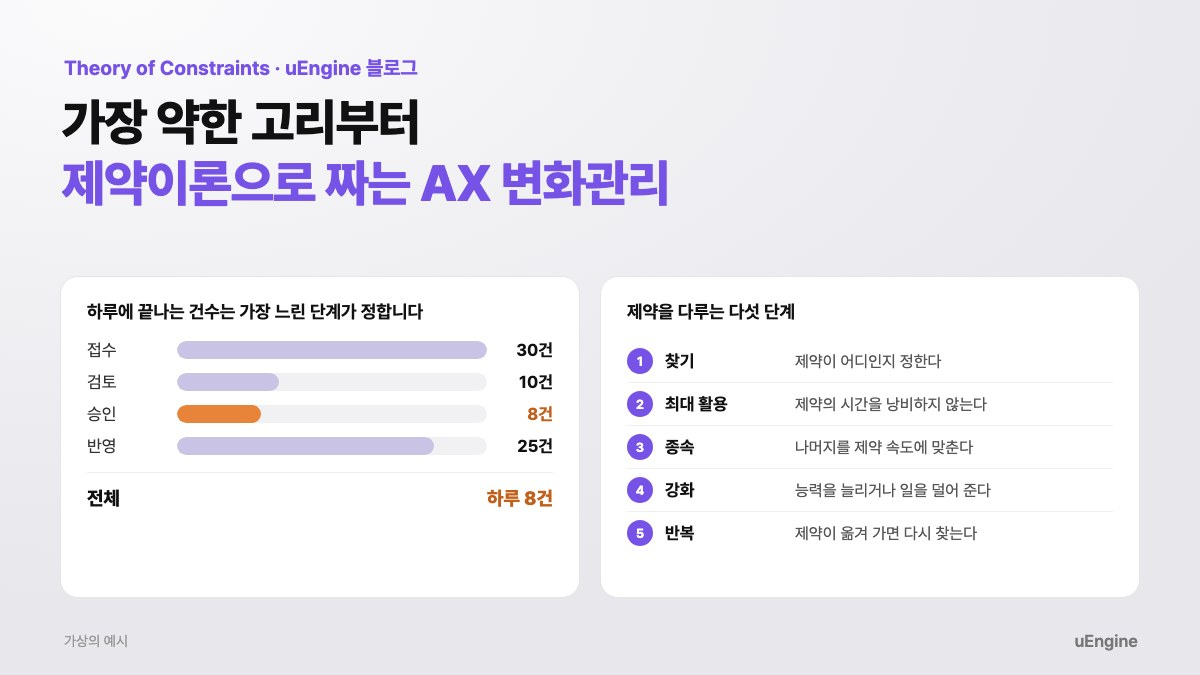
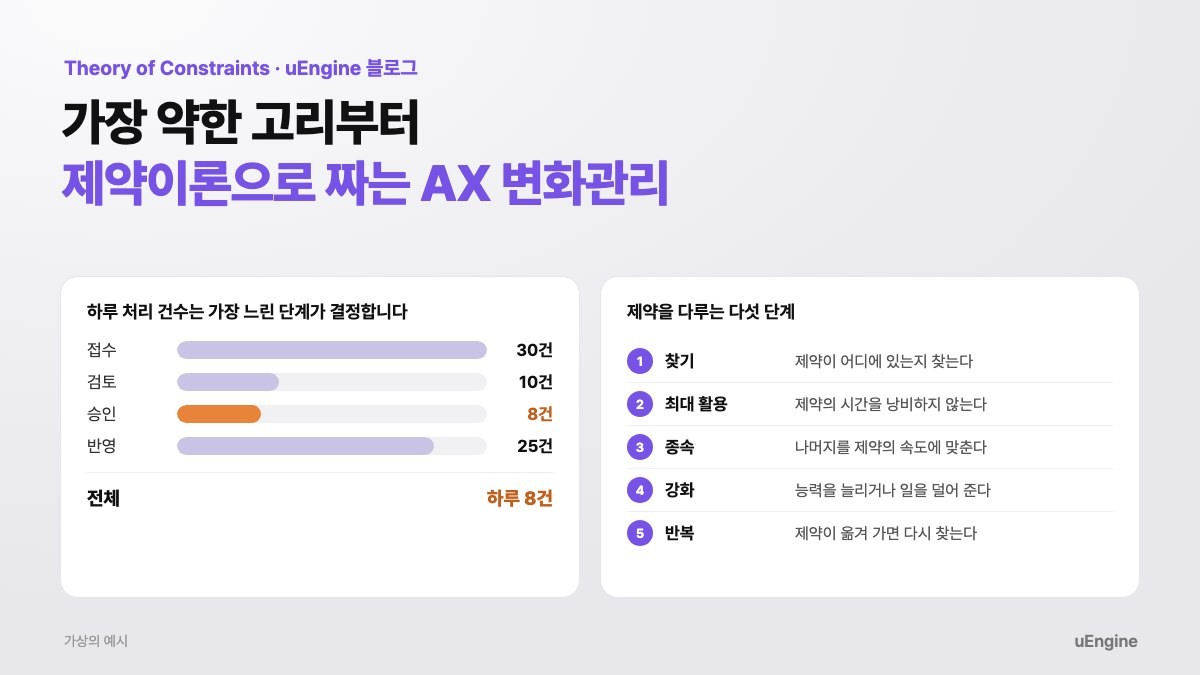
짧은 문구도 codex astra 윤문: 목록 카드 요약·SEO 설명·진단 단추·표지
- 블로그 목록 카드 요약 2편(→ 글 SEO 설명도 함께), AX 전환 프로그램 SEO 설명
- Process GPT 머리 단추 「우리 조직의 병목 진단 살펴보기」
- 블로그 표지 두 장(한국어판) 문구
- 영문은 뜻이 같아 기존 번역을 새 한국어 키에 이음

Changed region(s): [[0.0925, 0.4356, 0.37, 0.4978], [0.74, 0.6533, 0.8325, 0.6844], [0.7092, 0.5289, 0.8017, 0.56]]

diff --git a/contents/blog/ax-change-management-toc.html b/contents/blog/ax-change-management-toc.html
@@ -4,26 +4,27 @@
         <meta charset="utf-8">
         <!-- SEO:BEGIN — 자동 생성됨. 직접 수정하지 마세요. .claude/skills/seo-optimize/seo-meta.json 을 고치고 apply_seo.py 를 다시 실행하세요. -->
         <title>가장 약한 고리부터 — 제약이론으로 짜는 AX 변화관리 | uEngine 블로그</title>
-        <meta name="description" content="AI 교육을 마쳐도 일이 끝나는 시간이 그대로인 이유를 제약이론으로 설명합니다. 사슬은 가장 약한 고리만큼 강하다는 원리와 제약을 다루는 다섯 단계를 예제 숫자로 풀고, 이를 진단에서 변화관리까지 이어지는 AX 전환 프로그램으로 옮기는 방법을 소개합니다.">
+        <meta name="description" content="AI 교육을 마쳐도 업무에 걸리는 시간이 그대로인 이유를 제약이론으로 설명합니다. 사슬의 강도는 가장 약한 고리가 결정한다는 원리와 제약을 다루는 다섯 단계를 수치 예시로 풀어 설명하고, 이를 진단부터 변화관리까지 이어지는 AX 전환 프로그램에 적용하는 방법을 소개합니다.">
         <meta name="robots" content="index, follow, max-image-preview:large, max-snippet:-1, max-video-preview:-1">
         <link rel="canonical" href="https://www.uengine.org/contents/blog/ax-change-management-toc.html">
         <meta property="og:type" content="article">
         <meta property="og:site_name" content="uEngine">
         <meta property="og:locale" content="ko_KR">
         <meta property="og:title" content="가장 약한 고리부터 — 제약이론으로 짜는 AX 변화관리 | uEngine 블로그">
-        <meta property="og:description" content="AI 교육을 마쳐도 일이 끝나는 시간이 그대로인 이유를 제약이론으로 설명합니다. 사슬은 가장 약한 고리만큼 강하다는 원리와 제약을 다루는 다섯 단계를 예제 숫자로 풀고, 이를 진단에서 변화관리까지 이어지는 AX 전환 프로그램으로 옮기는 방법을 소개합니다.">
+        <meta property="og:description" content="AI 교육을 마쳐도 업무에 걸리는 시간이 그대로인 이유를 제약이론으로 설명합니다. 사슬의 강도는 가장 약한 고리가 결정한다는 원리와 제약을 다루는 다섯 단계를 수치 예시로 풀어 설명하고, 이를 진단부터 변화관리까지 이어지는 AX 전환 프로그램에 적용하는 방법을 소개합니다.">
         <meta property="og:url" content="https://www.uengine.org/contents/blog/ax-change-management-toc.html">
         <meta property="og:image" content="https://www.uengine.org/images/blog/ax-change-management-toc.jpg">
         <meta property="og:image:alt" content="가장 약한 고리부터 — 제약이론으로 짜는 AX 변화관리 | uEngine 블로그">
         <meta property="article:published_time" content="2026-11-19">
+        <meta property="article:modified_time" content="2026-11-19">
         <meta property="article:publisher" content="https://www.uengine.org/">
         <meta name="twitter:card" content="summary_large_image">
         <meta name="twitter:title" content="가장 약한 고리부터 — 제약이론으로 짜는 AX 변화관리 | uEngine 블로그">
-        <meta name="twitter:description" content="AI 교육을 마쳐도 일이 끝나는 시간이 그대로인 이유를 제약이론으로 설명합니다. 사슬은 가장 약한 고리만큼 강하다는 원리와 제약을 다루는 다섯 단계를 예제 숫자로 풀고, 이를 진단에서 변화관리까지 이어지는 AX 전환 프로그램으로 옮기는 방법을 소개합니다.">
+        <meta name="twitter:description" content="AI 교육을 마쳐도 업무에 걸리는 시간이 그대로인 이유를 제약이론으로 설명합니다. 사슬의 강도는 가장 약한 고리가 결정한다는 원리와 제약을 다루는 다섯 단계를 수치 예시로 풀어 설명하고, 이를 진단부터 변화관리까지 이어지는 AX 전환 프로그램에 적용하는 방법을 소개합니다.">
         <meta name="twitter:image" content="https://www.uengine.org/images/blog/ax-change-management-toc.jpg">
         <meta name="google-site-verification" content="9ZGWBuIjNYToBYuO79BveQS6l5kh6oEWg-LqIioIwhk">
         <meta name="naver-site-verification" content="5c690f447e5e02997ffdc0d4e5ad62bee713a647">
-        <script type="application/ld+json">{"@context":"https://schema.org","@type":"BlogPosting","headline":"가장 약한 고리부터 — 제약이론으로 짜는 AX 변화관리","description":"AI 교육을 마쳐도 일이 끝나는 시간이 그대로인 이유를 제약이론으로 설명합니다. 사슬은 가장 약한 고리만큼 강하다는 원리와 제약을 다루는 다섯 단계를 예제 숫자로 풀고, 이를 진단에서 변화관리까지 이어지는 AX 전환 프로그램으로 옮기는 방법을 소개합니다.","image":["https://www.uengine.org/images/blog/ax-change-management-toc.jpg"],"url":"https://www.uengine.org/contents/blog/ax-change-management-toc.html","mainEntityOfPage":{"@type":"WebPage","@id":"https://www.uengine.org/contents/blog/ax-change-management-toc.html"},"inLanguage":"ko","author":{"@type":"Organization","name":"유엔진솔루션즈","url":"https://www.uengine.org/"},"publisher":{"@type":"Organization","name":"유엔진솔루션즈","url":"https://www.uengine.org/","logo":{"@type":"ImageObject","url":"https://www.uengine.org/images/logo-b.png"}},"datePublished":"2026-11-19","dateModified":"2026-11-19"}</script>
+        <script type="application/ld+json">{"@context":"https://schema.org","@type":"BlogPosting","headline":"가장 약한 고리부터 — 제약이론으로 짜는 AX 변화관리","description":"AI 교육을 마쳐도 업무에 걸리는 시간이 그대로인 이유를 제약이론으로 설명합니다. 사슬의 강도는 가장 약한 고리가 결정한다는 원리와 제약을 다루는 다섯 단계를 수치 예시로 풀어 설명하고, 이를 진단부터 변화관리까지 이어지는 AX 전환 프로그램에 적용하는 방법을 소개합니다.","image":["https://www.uengine.org/images/blog/ax-change-management-toc.jpg"],"url":"https://www.uengine.org/contents/blog/ax-change-management-toc.html","mainEntityOfPage":{"@type":"WebPage","@id":"https://www.uengine.org/contents/blog/ax-change-management-toc.html"},"inLanguage":"ko","author":{"@type":"Organization","name":"유엔진솔루션즈","url":"https://www.uengine.org/"},"publisher":{"@type":"Organization","name":"유엔진솔루션즈","url":"https://www.uengine.org/","logo":{"@type":"ImageObject","url":"https://www.uengine.org/images/logo-b.png"}},"datePublished":"2026-11-19","dateModified":"2026-11-19"}</script>
         <script type="application/ld+json">{"@context":"https://schema.org","@type":"BreadcrumbList","itemListElement":[{"@type":"ListItem","position":1,"name":"uEngine","item":"https://www.uengine.org/"},{"@type":"ListItem","position":2,"name":"블로그","item":"https://www.uengine.org/contents/bloglist.html"},{"@type":"ListItem","position":3,"name":"가장 약한 고리부터","item":"https://www.uengine.org/contents/blog/ax-change-management-toc.html"}]}</script>
         <script async src="https://www.googletagmanager.com/gtag/js?id=G-0DTYBRCZDQ"></script>
         <script>window.dataLayer=window.dataLayer||[];function gtag(){dataLayer.push(arguments);}gtag('js',new Date());gtag('config','G-0DTYBRCZDQ');</script>

diff --git a/contents/blog/ai-pilot-to-production.html b/contents/blog/ai-pilot-to-production.html
@@ -4,14 +4,14 @@
         <meta charset="utf-8">
         <!-- SEO:BEGIN — 자동 생성됨. 직접 수정하지 마세요. .claude/skills/seo-optimize/seo-meta.json 을 고치고 apply_seo.py 를 다시 실행하세요. -->
         <title>AI 파일럿은 왜 실무에서 멈출까 — Process GPT 접근이 필요한 이유 | uEngine 블로그</title>
-        <meta name="description" content="AI가 문서를 3초 만에 요약해도 청구서 한 건이 끝나는 시간은 거의 줄지 않습니다. 그 이유를 가상의 숫자로 따라가 보고, 사람·AI·규칙·기존 시스템을 한 흐름으로 잇는 Process GPT 접근과 도입 전에 던질 네 가지 질문을 정리했습니다.">
+        <meta name="description" content="AI가 문서를 3초 만에 요약해도 청구서 한 건을 처리하는 데 걸리는 시간은 거의 줄지 않습니다. 가상의 수치로 그 이유를 살펴보고, 사람·AI·규칙·기존 시스템을 한 흐름으로 잇는 Process GPT 접근 방식과 도입 전에 살펴볼 네 가지 질문을 정리합니다.">
         <meta name="robots" content="index, follow, max-image-preview:large, max-snippet:-1, max-video-preview:-1">
         <link rel="canonical" href="https://www.uengine.org/contents/blog/ai-pilot-to-production.html">
         <meta property="og:type" content="article">
         <meta property="og:site_name" content="uEngine">
         <meta property="og:locale" content="ko_KR">
         <meta property="og:title" content="AI 파일럿은 왜 실무에서 멈출까 — Process GPT 접근이 필요한 이유 | uEngine 블로그">
-        <meta property="og:description" content="AI가 문서를 3초 만에 요약해도 청구서 한 건이 끝나는 시간은 거의 줄지 않습니다. 그 이유를 가상의 숫자로 따라가 보고, 사람·AI·규칙·기존 시스템을 한 흐름으로 잇는 Process GPT 접근과 도입 전에 던질 네 가지 질문을 정리했습니다.">
+        <meta property="og:description" content="AI가 문서를 3초 만에 요약해도 청구서 한 건을 처리하는 데 걸리는 시간은 거의 줄지 않습니다. 가상의 수치로 그 이유를 살펴보고, 사람·AI·규칙·기존 시스템을 한 흐름으로 잇는 Process GPT 접근 방식과 도입 전에 살펴볼 네 가지 질문을 정리합니다.">
         <meta property="og:url" content="https://www.uengine.org/contents/blog/ai-pilot-to-production.html">
         <meta property="og:image" content="https://www.uengine.org/images/blog/ai-pilot-to-production.jpg">
         <meta property="og:image:alt" content="AI 파일럿은 왜 실무에서 멈출까 — Process GPT 접근이 필요한 이유 | uEngine 블로그">
@@ -20,11 +20,11 @@
         <meta property="article:publisher" content="https://www.uengine.org/">
         <meta name="twitter:card" content="summary_large_image">
         <meta name="twitter:title" content="AI 파일럿은 왜 실무에서 멈출까 — Process GPT 접근이 필요한 이유 | uEngine 블로그">
-        <meta name="twitter:description" content="AI가 문서를 3초 만에 요약해도 청구서 한 건이 끝나는 시간은 거의 줄지 않습니다. 그 이유를 가상의 숫자로 따라가 보고, 사람·AI·규칙·기존 시스템을 한 흐름으로 잇는 Process GPT 접근과 도입 전에 던질 네 가지 질문을 정리했습니다.">
+        <meta name="twitter:description" content="AI가 문서를 3초 만에 요약해도 청구서 한 건을 처리하는 데 걸리는 시간은 거의 줄지 않습니다. 가상의 수치로 그 이유를 살펴보고, 사람·AI·규칙·기존 시스템을 한 흐름으로 잇는 Process GPT 접근 방식과 도입 전에 살펴볼 네 가지 질문을 정리합니다.">
         <meta name="twitter:image" content="https://www.uengine.org/images/blog/ai-pilot-to-production.jpg">
         <meta name="google-site-verification" content="9ZGWBuIjNYToBYuO79BveQS6l5kh6oEWg-LqIioIwhk">
         <meta name="naver-site-verification" content="5c690f447e5e02997ffdc0d4e5ad62bee713a647">
-        <script type="application/ld+json">{"@context":"https://schema.org","@type":"BlogPosting","headline":"AI 파일럿은 왜 실무에서 멈출까 — Process GPT 접근이 필요한 이유","description":"AI가 문서를 3초 만에 요약해도 청구서 한 건이 끝나는 시간은 거의 줄지 않습니다. 그 이유를 가상의 숫자로 따라가 보고, 사람·AI·규칙·기존 시스템을 한 흐름으로 잇는 Process GPT 접근과 도입 전에 던질 네 가지 질문을 정리했습니다.","image":["https://www.uengine.org/images/blog/ai-pilot-to-production.jpg"],"url":"https://www.uengine.org/contents/blog/ai-pilot-to-production.html","mainEntityOfPage":{"@type":"WebPage","@id":"https://www.uengine.org/contents/blog/ai-pilot-to-production.html"},"inLanguage":"ko","author":{"@type":"Organization","name":"유엔진솔루션즈","url":"https://www.uengine.org/"},"publisher":{"@type":"Organization","name":"유엔진솔루션즈","url":"https://www.uengine.org/","logo":{"@type":"ImageObject","url":"https://www.uengine.org/images/logo-b.png"}},"datePublished":"2026-11-19","dateModified":"2026-11-19"}</script>
+        <script type="application/ld+json">{"@context":"https://schema.org","@type":"BlogPosting","headline":"AI 파일럿은 왜 실무에서 멈출까 — Process GPT 접근이 필요한 이유","description":"AI가 문서를 3초 만에 요약해도 청구서 한 건을 처리하는 데 걸리는 시간은 거의 줄지 않습니다. 가상의 수치로 그 이유를 살펴보고, 사람·AI·규칙·기존 시스템을 한 흐름으로 잇는 Process GPT 접근 방식과 도입 전에 살펴볼 네 가지 질문을 정리합니다.","image":["https://www.uengine.org/images/blog/ai-pilot-to-production.jpg"],"url":"https://www.uengine.org/contents/blog/ai-pilot-to-production.html","mainEntityOfPage":{"@type":"WebPage","@id":"https://www.uengine.org/contents/blog/ai-pilot-to-production.html"},"inLanguage":"ko","author":{"@type":"Organization","name":"유엔진솔루션즈","url":"https://www.uengine.org/"},"publisher":{"@type":"Organization","name":"유엔진솔루션즈","url":"https://www.uengine.org/","logo":{"@type":"ImageObject","url":"https://www.uengine.org/images/logo-b.png"}},"datePublished":"2026-11-19","dateModified":"2026-11-19"}</script>
         <script type="application/ld+json">{"@context":"https://schema.org","@type":"BreadcrumbList","itemListElement":[{"@type":"ListItem","position":1,"name":"uEngine","item":"https://www.uengine.org/"},{"@type":"ListItem","position":2,"name":"블로그","item":"https://www.uengine.org/contents/bloglist.html"},{"@type":"ListItem","position":3,"name":"AI 파일럿은 왜 실무에서 멈출까","item":"https://www.uengine.org/contents/blog/ai-pilot-to-production.html"}]}</script>
         <script async src="https://www.googletagmanager.com/gtag/js?id=G-0DTYBRCZDQ"></script>
         <script>window.dataLayer=window.dataLayer||[];function gtag(){dataLayer.push(arguments);}gtag('js',new Date());gtag('config','G-0DTYBRCZDQ');</script>

diff --git a/contents/axprogram.html b/contents/axprogram.html
@@ -4,24 +4,24 @@
         <meta charset="utf-8">
         <!-- SEO:BEGIN — 자동 생성됨. 직접 수정하지 마세요. .claude/skills/seo-optimize/seo-meta.json 을 고치고 apply_seo.py 를 다시 실행하세요. -->
         <title>AX 전환 프로그램 — 사전 진단에서 변화관리까지 | uEngine</title>
-        <meta name="description" content="교육만으로는 조직이 바뀌지 않습니다. 밸류 스트림 진단으로 병목을 찾고, 에이전트·자동화·프로세스 혁신으로 풀고, 대상별 교육과 변화관리로 정착시키는 유엔진의 7단계 AX 전환 프로그램입니다.">
+        <meta name="description" content="교육만으로는 조직이 바뀌지 않습니다. 밸류 스트림 진단으로 병목을 찾아 에이전트·자동화·프로세스 혁신으로 해소하고, 대상별 교육과 변화관리로 변화를 정착시키는 유엔진의 7단계 AX 전환 프로그램입니다.">
         <meta name="robots" content="index, follow, max-image-preview:large, max-snippet:-1, max-video-preview:-1">
         <link rel="canonical" href="https://www.uengine.org/contents/axprogram.html">
         <meta property="og:type" content="website">
         <meta property="og:site_name" content="uEngine">
         <meta property="og:locale" content="ko_KR">
         <meta property="og:title" content="AX 전환 프로그램 — 사전 진단에서 변화관리까지 | uEngine">
-        <meta property="og:description" content="교육만으로는 조직이 바뀌지 않습니다. 밸류 스트림 진단으로 병목을 찾고, 에이전트·자동화·프로세스 혁신으로 풀고, 대상별 교육과 변화관리로 정착시키는 유엔진의 7단계 AX 전환 프로그램입니다.">
+        <meta property="og:description" content="교육만으로는 조직이 바뀌지 않습니다. 밸류 스트림 진단으로 병목을 찾아 에이전트·자동화·프로세스 혁신으로 해소하고, 대상별 교육과 변화관리로 변화를 정착시키는 유엔진의 7단계 AX 전환 프로그램입니다.">
         <meta property="og:url" content="https://www.uengine.org/contents/axprogram.html">
         <meta property="og:image" content="https://www.uengine.org/images/og/axprogram.jpg">
         <meta property="og:image:alt" content="AX 전환 프로그램 — 사전 진단에서 변화관리까지 | uEngine">
         <meta name="twitter:card" content="summary_large_image">
         <meta name="twitter:title" content="AX 전환 프로그램 — 사전 진단에서 변화관리까지 | uEngine">
-        <meta name="twitter:description" content="교육만으로는 조직이 바뀌지 않습니다. 밸류 스트림 진단으로 병목을 찾고, 에이전트·자동화·프로세스 혁신으로 풀고, 대상별 교육과 변화관리로 정착시키는 유엔진의 7단계 AX 전환 프로그램입니다.">
+        <meta name="twitter:description" content="교육만으로는 조직이 바뀌지 않습니다. 밸류 스트림 진단으로 병목을 찾아 에이전트·자동화·프로세스 혁신으로 해소하고, 대상별 교육과 변화관리로 변화를 정착시키는 유엔진의 7단계 AX 전환 프로그램입니다.">
         <meta name="twitter:image" content="https://www.uengine.org/images/og/axprogram.jpg">
         <meta name="google-site-verification" content="9ZGWBuIjNYToBYuO79BveQS6l5kh6oEWg-LqIioIwhk">
         <meta name="naver-site-verification" content="5c690f447e5e02997ffdc0d4e5ad62bee713a647">
-        <script type="application/ld+json">{"@context":"https://schema.org","@type":"WebPage","name":"AX 전환 프로그램","description":"교육만으로는 조직이 바뀌지 않습니다. 밸류 스트림 진단으로 병목을 찾고, 에이전트·자동화·프로세스 혁신으로 풀고, 대상별 교육과 변화관리로 정착시키는 유엔진의 7단계 AX 전환 프로그램입니다.","url":"https://www.uengine.org/contents/axprogram.html","image":"https://www.uengine.org/images/og/axprogram.jpg","inLanguage":"ko","isPartOf":{"@type":"WebSite","name":"uEngine","url":"https://www.uengine.org/"},"publisher":{"@type":"Organization","name":"유엔진솔루션즈","url":"https://www.uengine.org/","logo":{"@type":"ImageObject","url":"https://www.uengine.org/images/logo-b.png"}}}</script>
+        <script type="application/ld+json">{"@context":"https://schema.org","@type":"WebPage","name":"AX 전환 프로그램","description":"교육만으로는 조직이 바뀌지 않습니다. 밸류 스트림 진단으로 병목을 찾아 에이전트·자동화·프로세스 혁신으로 해소하고, 대상별 교육과 변화관리로 변화를 정착시키는 유엔진의 7단계 AX 전환 프로그램입니다.","url":"https://www.uengine.org/contents/axprogram.html","image":"https://www.uengine.org/images/og/axprogram.jpg","inLanguage":"ko","isPartOf":{"@type":"WebSite","name":"uEngine","url":"https://www.uengine.org/"},"publisher":{"@type":"Organization","name":"유엔진솔루션즈","url":"https://www.uengine.org/","logo":{"@type":"ImageObject","url":"https://www.uengine.org/images/logo-b.png"}}}</script>
         <script type="application/ld+json">{"@context":"https://schema.org","@type":"BreadcrumbList","itemListElement":[{"@type":"ListItem","position":1,"name":"uEngine","item":"https://www.uengine.org/"},{"@type":"ListItem","position":2,"name":"AX 전환 프로그램","item":"https://www.uengine.org/contents/axprogram.html"}]}</script>
         <script async src="https://www.googletagmanager.com/gtag/js?id=G-0DTYBRCZDQ"></script>
         <script>window.dataLayer=window.dataLayer||[];function gtag(){dataLayer.push(arguments);}gtag('js',new Date());gtag('config','G-0DTYBRCZDQ');</script>

diff --git a/contents/bloglist.html b/contents/bloglist.html
@@ -521,7 +521,7 @@
                                 <div class="blog-item box-shadow round p-4 p-md-5">
                                     <h2 class="blog-item-title"><a href="blog/ax-change-management-toc.html">가장 약한 고리부터 — 제약이론으로 짜는 AX 변화관리</a></h2>
                                     <div class="blog-item-data"><i class="mi-clock size-16"></i> November 19, 2026</div>
-                                    <div class="mb-30"><p class="mb-0">AI 교육을 마쳐도 일이 끝나는 시간이 그대로인 이유를 제약이론으로 설명합니다. 사슬은 가장 약한 고리만큼 강하다는 원리와 제약을 다루는 다섯 단계를 예제 숫자로 풀고, 이를 진단에서 변화관리까지 이어지는 AX 전환 프로그램으로 옮기는 방법을 소개합니다.</p></div>
+                                    <div class="mb-30"><p class="mb-0">AI 교육을 마쳐도 업무에 걸리는 시간이 그대로인 이유를 제약이론으로 설명합니다. 사슬의 강도는 가장 약한 고리가 결정한다는 원리와 제약을 다루는 다섯 단계를 수치 예시로 풀어 설명하고, 이를 진단부터 변화관리까지 이어지는 AX 전환 프로그램에 적용하는 방법을 소개합니다.</p></div>
                                     <div class="blog-item-foot"><a href="blog/ax-change-management-toc.html" class="btn btn-mod btn-round btn-medium btn-gray">Read More</a></div>
                                 </div>
                                 <!-- End Post -->
@@ -530,7 +530,7 @@
                                 <div class="blog-item box-shadow round p-4 p-md-5">
                                     <h2 class="blog-item-title"><a href="blog/ai-pilot-to-production.html">AI 파일럿은 왜 실무에서 멈출까 — Process GPT 접근이 필요한 이유</a></h2>
                                     <div class="blog-item-data"><i class="mi-clock size-16"></i> November 19, 2026</div>
-                                    <div class="mb-30"><p class="mb-0">AI가 문서를 3초 만에 요약해도 청구서 한 건이 끝나는 시간은 거의 줄지 않습니다. 그 이유를 가상의 숫자로 따라가 보고, 사람·AI·규칙·기존 시스템을 한 흐름으로 잇는 Process GPT 접근과 도입 전에 던질 네 가지 질문을 정리했습니다.</p></div>
+                                    <div class="mb-30"><p class="mb-0">AI가 문서를 3초 만에 요약해도 청구서 한 건을 처리하는 데 걸리는 시간은 거의 줄지 않습니다. 가상의 수치로 그 이유를 살펴보고, 사람·AI·규칙·기존 시스템을 한 흐름으로 잇는 Process GPT 접근 방식과 도입 전에 살펴볼 네 가지 질문을 정리합니다.</p></div>
                                     <div class="blog-item-foot"><a href="blog/ai-pilot-to-production.html" class="btn btn-mod btn-round btn-medium btn-gray">Read More</a></div>
                                 </div>
                                 <!-- End Post -->

diff --git a/contents/processgpt.html b/contents/processgpt.html
@@ -525,7 +525,7 @@
   <h2 class="section-title" id="leadtime-title">개인의 작업을 빠르게 하는 AI에서,<br><em>조직 전체의 리드타임을 줄이는 AI로.</em></h2>
   <p class="pgpt-story-lead">문서 작성과 분석은 빨라졌습니다. 그런데 고객의 요청부터 최종 의사결정과 실행 완료까지, 조직의 일은 얼마나 빨라졌나요?</p>
   <p class="pgpt-story-summary">Process GPT는 사람·AI·기존 시스템을 하나의 End-to-End 프로세스로 연결합니다. 부서 사이의 인계와 의사결정 병목을 찾아, 개인의 시간 절약을 조직 전체의 성과로 이어갑니다.</p>
-  <div class="pgpt-story-actions"><a class="btn btn-mod btn-large btn-round" href="axprogram.html">우리 조직의 병목 진단 알아보기</a><a href="#features">기능과 실제 화면 보기 ↓</a><a href="../docs/ProcessGPT-제품소개서-2026.10.pdf">제품소개서 PDF</a></div>
+  <div class="pgpt-story-actions"><a class="btn btn-mod btn-large btn-round" href="axprogram.html">우리 조직의 병목 진단 살펴보기</a><a href="#features">기능과 실제 화면 보기 ↓</a><a href="../docs/ProcessGPT-제품소개서-2026.10.pdf">제품소개서 PDF</a></div>
   <nav class="pgpt-story-nav" aria-label="제품 설명 바로가기"><a href="#leadtime-problem">문제: 전체 리드타임</a><a href="#orchestration-solution">해결: End-to-End 연결</a><a href="#features">FEATURES</a><a href="#processgpt-cases">적용 사례</a><a href="#processgpt-listen">영상·팟캐스트</a></nav>
  </div>
 </section>

diff --git a/en/contents/blog/ax-change-management-toc.html b/en/contents/blog/ax-change-management-toc.html
@@ -16,6 +16,7 @@
         <meta property="og:image" content="https://www.uengine.org/images/en/blog/ax-change-management-toc.jpg">
         <meta property="og:image:alt" content="Start with the Weakest Link — AX Change Management Built on the Theory of Constraints | uEngine Blog">
         <meta property="article:published_time" content="2026-11-19">
+        <meta property="article:modified_time" content="2026-11-19">
         <meta property="article:publisher" content="https://www.uengine.org/">
         <meta name="twitter:card" content="summary_large_image">
         <meta name="twitter:title" content="Start with the Weakest Link — AX Change Management Built on the Theory of Constraints | uEngine Blog">
